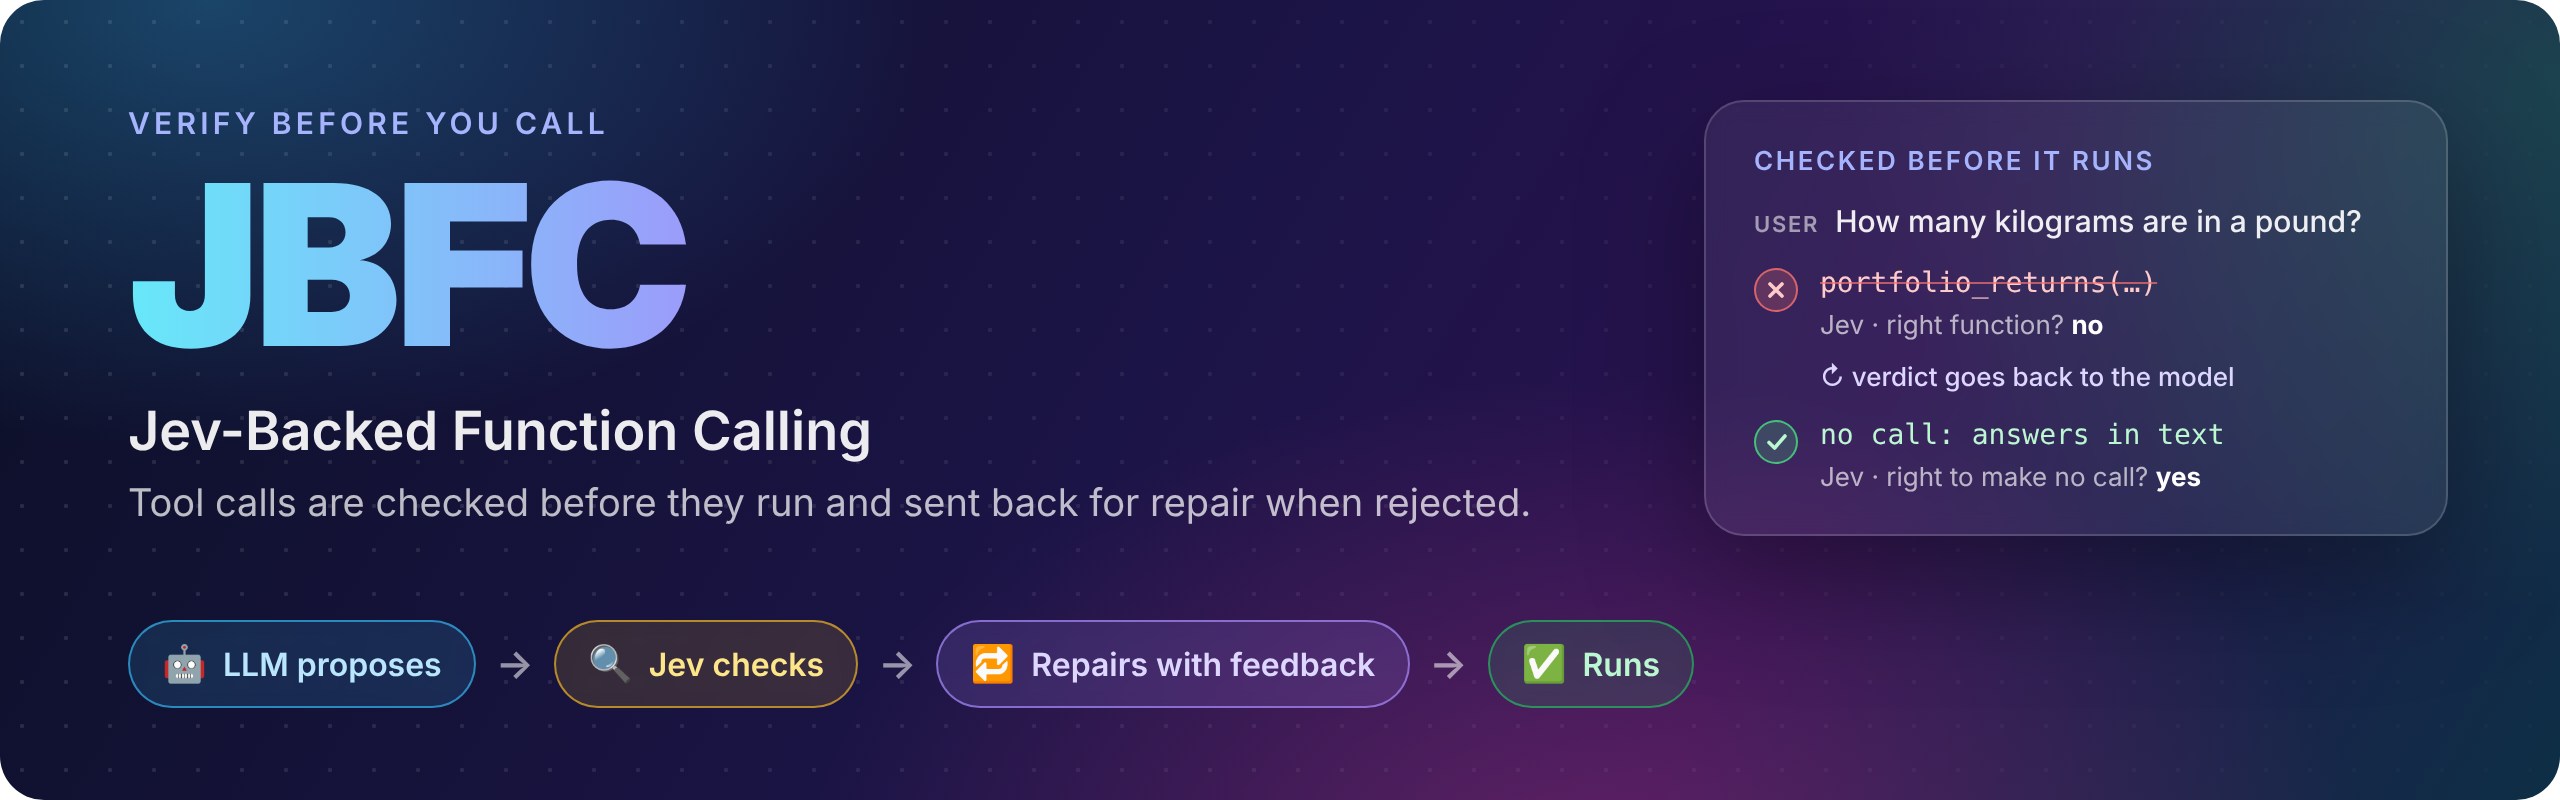
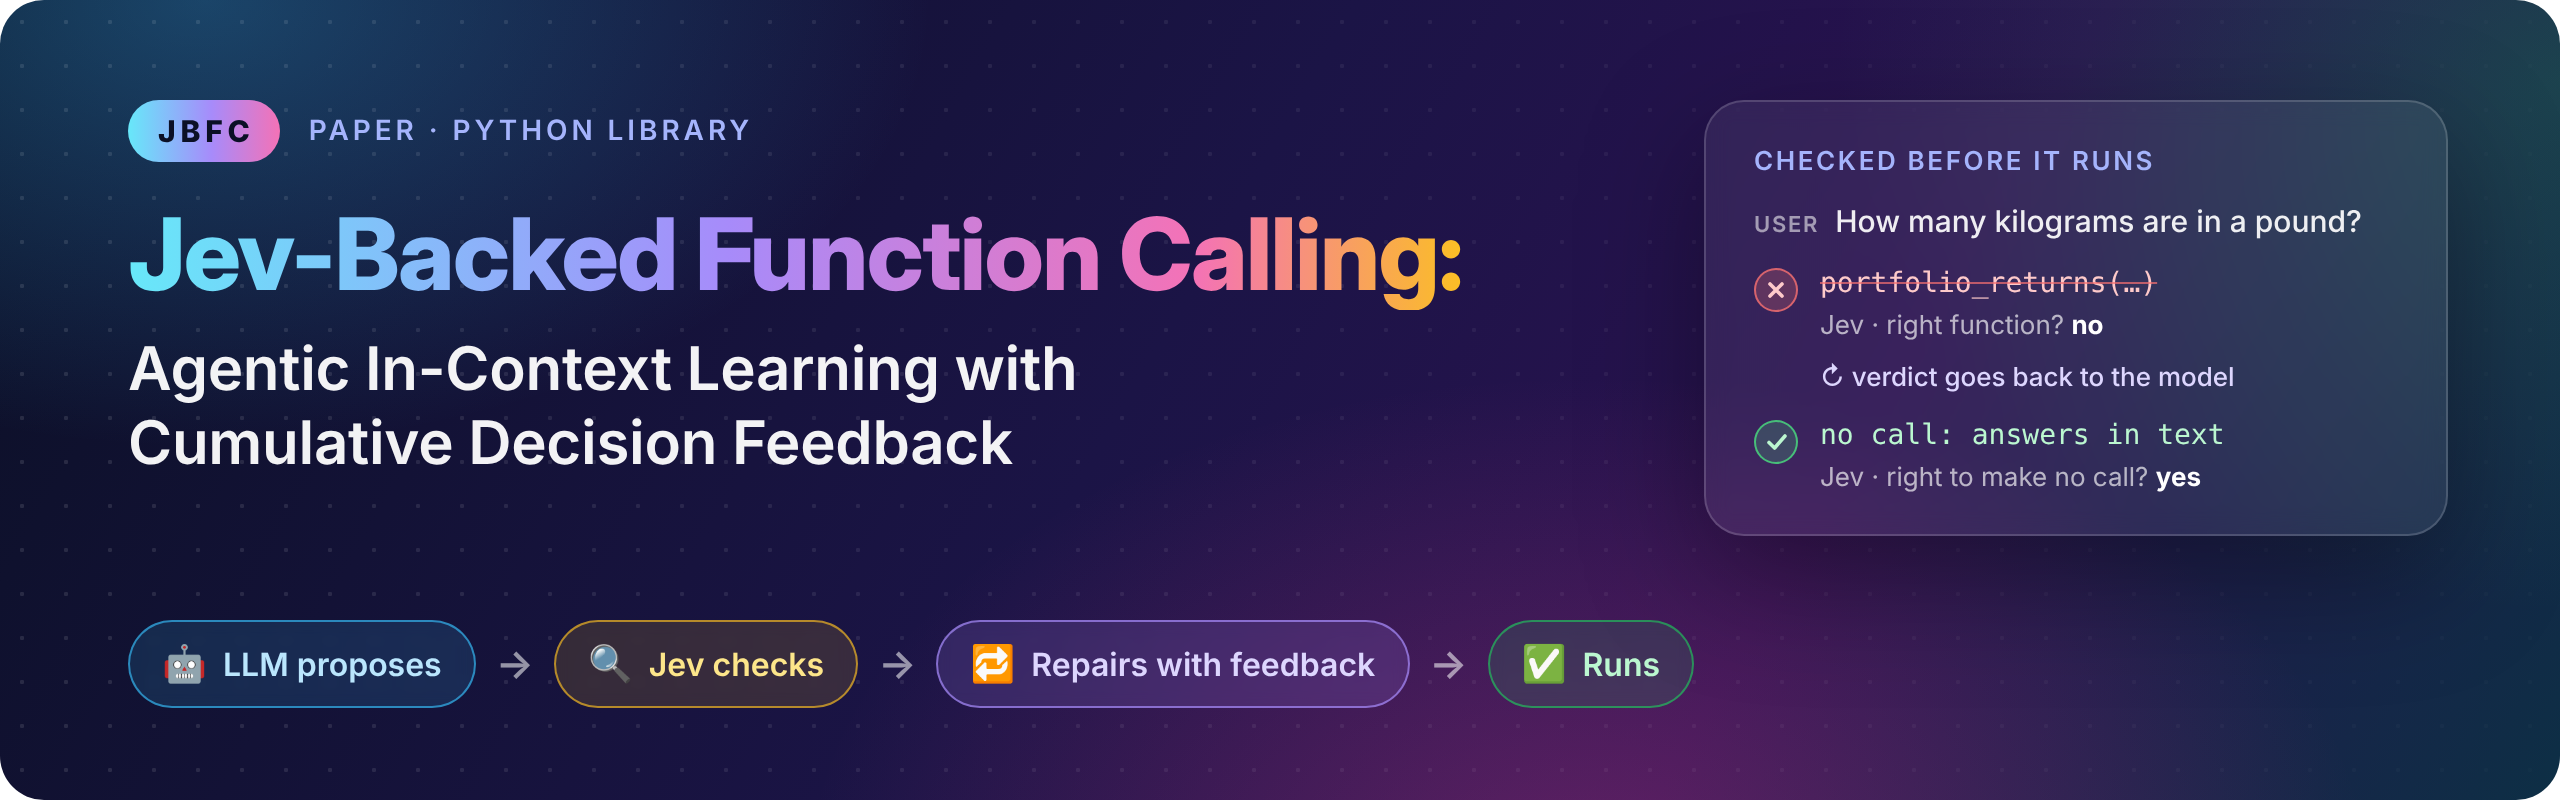
docs: show the paper title in the README hero image
The banner now leads with "Jev-Backed Function Calling: Agentic In-Context
Learning with Cumulative Decision Feedback"; JBFC moves to a small label and
the tagline that repeated the README's first line is dropped.

Claude-Session: https://claude.ai/code/session_01HkTMoNkTjxN67DttugRtnV

Changed region(s): [[0.0312, 0.125, 0.5938, 0.6562]]

diff --git a/docs/assets/src/hero.html b/docs/assets/src/hero.html
@@ -18,15 +18,19 @@
     background-size: 22px 22px;
     mask-image: linear-gradient(90deg, rgba(0,0,0,.9), rgba(0,0,0,.15));
   }
-  .left { position: absolute; left: 64px; top: 52px; width: 760px; }
-  .eyebrow { font: 600 15px Inter; letter-spacing: .14em; text-transform: uppercase; color: #a5b4fc; }
-  .title {
-    margin-top: 6px; font: 900 112px/1 "Inter Display"; letter-spacing: -.02em;
-    background: linear-gradient(90deg, #67e8f9 0%, #a78bfa 45%, #f472b6 80%, #fbbf24 100%);
-    -webkit-background-clip: text; background-clip: text; color: transparent;
+  .left { position: absolute; left: 64px; top: 50px; width: 770px; }
+  .top { display: flex; align-items: center; gap: 14px; }
+  .chip {
+    font: 800 15px Inter; letter-spacing: .16em; padding: 6px 13px 6px 15px; border-radius: 999px;
+    color: #0b1026; background: linear-gradient(90deg, #67e8f9 0%, #a78bfa 55%, #f472b6 100%);
   }
-  .sub { margin-top: 10px; font: 600 27px Inter; color: rgba(255,255,255,.92); }
-  .tag { margin-top: 8px; font: 400 19px Inter; color: rgba(255,255,255,.72); }
+  .eyebrow { font: 600 14px Inter; letter-spacing: .14em; text-transform: uppercase; color: #a5b4fc; }
+  .title {
+    margin-top: 20px; font: 800 50px/1.08 "Inter Display"; letter-spacing: -.015em;
+    background: linear-gradient(90deg, #67e8f9 0%, #a78bfa 45%, #f472b6 80%, #fbbf24 100%);
+    -webkit-background-clip: text; background-clip: text; color: transparent; width: fit-content;
+  }
+  .sub { margin-top: 12px; font: 600 30px/1.24 Inter; color: rgba(255,255,255,.95); letter-spacing: -.005em; }
   .flow { position: absolute; left: 64px; bottom: 46px; display: flex; align-items: center; gap: 10px; }
   .pill {
     display: flex; align-items: center; gap: 8px; padding: 10px 16px; border-radius: 999px;
@@ -62,10 +66,9 @@
 <div class="hero">
   <div class="grid"></div>
   <div class="left">
-    <div class="eyebrow">Verify before you call</div>
-    <div class="title">JBFC</div>
-    <div class="sub">Jev-Backed Function Calling</div>
-    <div class="tag">Tool calls are checked before they run and sent back for repair when rejected.</div>
+    <div class="top"><span class="chip">JBFC</span><span class="eyebrow">Paper · Python library</span></div>
+    <div class="title">Jev-Backed Function Calling:</div>
+    <div class="sub">Agentic In-Context Learning with<br>Cumulative Decision Feedback</div>
   </div>
   <div class="flow">
     <div class="pill p1"><span class="e">🤖</span>LLM proposes</div>

diff --git a/docs/validation.md b/docs/validation.md
@@ -296,3 +296,7 @@
 - Table 1: 머리글을 `gpt-5-nano`(Direct, **JBFC**)와 `gpt-5.4-mini`(Direct) 두 단으로 나누고, 행마다 가장 높은 정확도를 굵게, 마지막에 1,000건당 비용(USD/1k) 행을 더했습니다. 실행 전에는 셋째 열이 `--`이고 캡션에 미실행 문구가 붙습니다. `make report`도 `jev-fc report` 뒤에 이 스크립트를 실행해 열을 유지합니다.
 - 원고: 4.2에 "Direct also runs once with the larger, costlier deployment gpt-5.4-mini under the same settings"를, 4.3에 `gpt-5.4-mini` 가격을 넣었습니다. 결과 문단과 결론은 실행 뒤에 수치대로 씁니다(큰 모델이 더 높은 범주가 있으면 그대로 적습니다). 4쪽을 지키려고 Table 1·Figure 2 캡션, 4.3의 측정 목록, "Repair limits." 문단(앞 문단에 합침), 4.4 첫 문단과 "More repairs." 문장을 줄였습니다(수치는 그대로).
 - 예상 비용: Table 2 실행의 Direct 토큰 사용량에 `gpt-5.4-mini` 가격을 적용하면 1,000건당 약 $0.74, 전체 약 $2.3입니다(실제 출력 길이에 따라 달라짐). 작업자 8개로 약 10분 예상. 작업 환경에서는 게이트웨이에 접속할 수 없어 사용자가 실행해야 합니다.
+
+## README 히어로에 논문 제목 (2026-10-18)
+
+- 사용자 요청: README 첫 그림에 논문 제목이 드러나지 않아 어색합니다. 히어로 이미지의 큰 "JBFC" 글자 대신 논문 제목 "Jev-Backed Function Calling: Agentic In-Context Learning with Cumulative Decision Feedback"을 두 줄(제목·부제)로 크게 넣고, "JBFC"는 작은 라벨로 옮겼습니다. 바로 아래 README 한 줄 소개와 겹치던 태그라인은 이미지에서 뺐습니다. 오른쪽 예시 카드와 아래 흐름 표시는 그대로이며, 성능 수치는 여전히 없습니다. 이미지 대체 텍스트에도 제목을 넣었습니다.

diff --git a/README.md b/README.md
@@ -1,5 +1,5 @@
 <p align="center">
-  <img src="docs/assets/jbfc-hero.png" alt="JBFC: Jev-Backed Function Calling. The LLM proposes a call, Jev checks it, a rejected call goes back to the LLM with the verdict, and only a call that passes runs." width="100%">
+  <img src="docs/assets/jbfc-hero.png" alt="Jev-Backed Function Calling: Agentic In-Context Learning with Cumulative Decision Feedback (JBFC). The LLM proposes a call, Jev checks it, a rejected call goes back to the LLM with the verdict, and only a call that passes runs." width="100%">
 </p>
 
 <h3 align="center">Your LLM's tool calls, checked before they run and sent back for repair when rejected.</h3>
